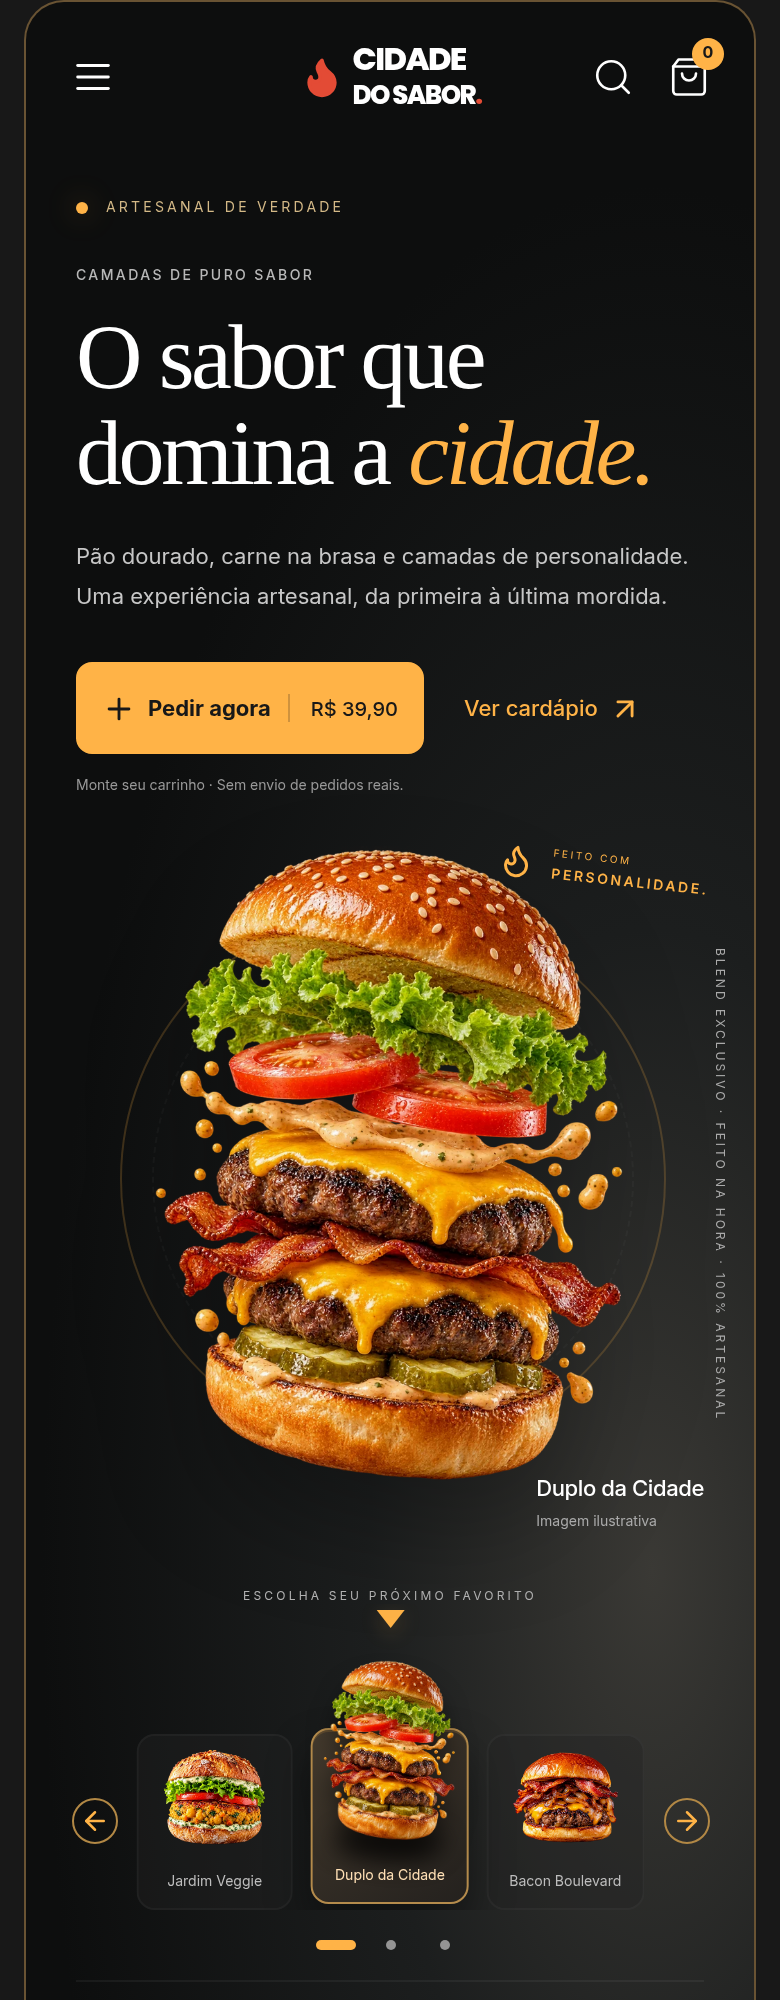
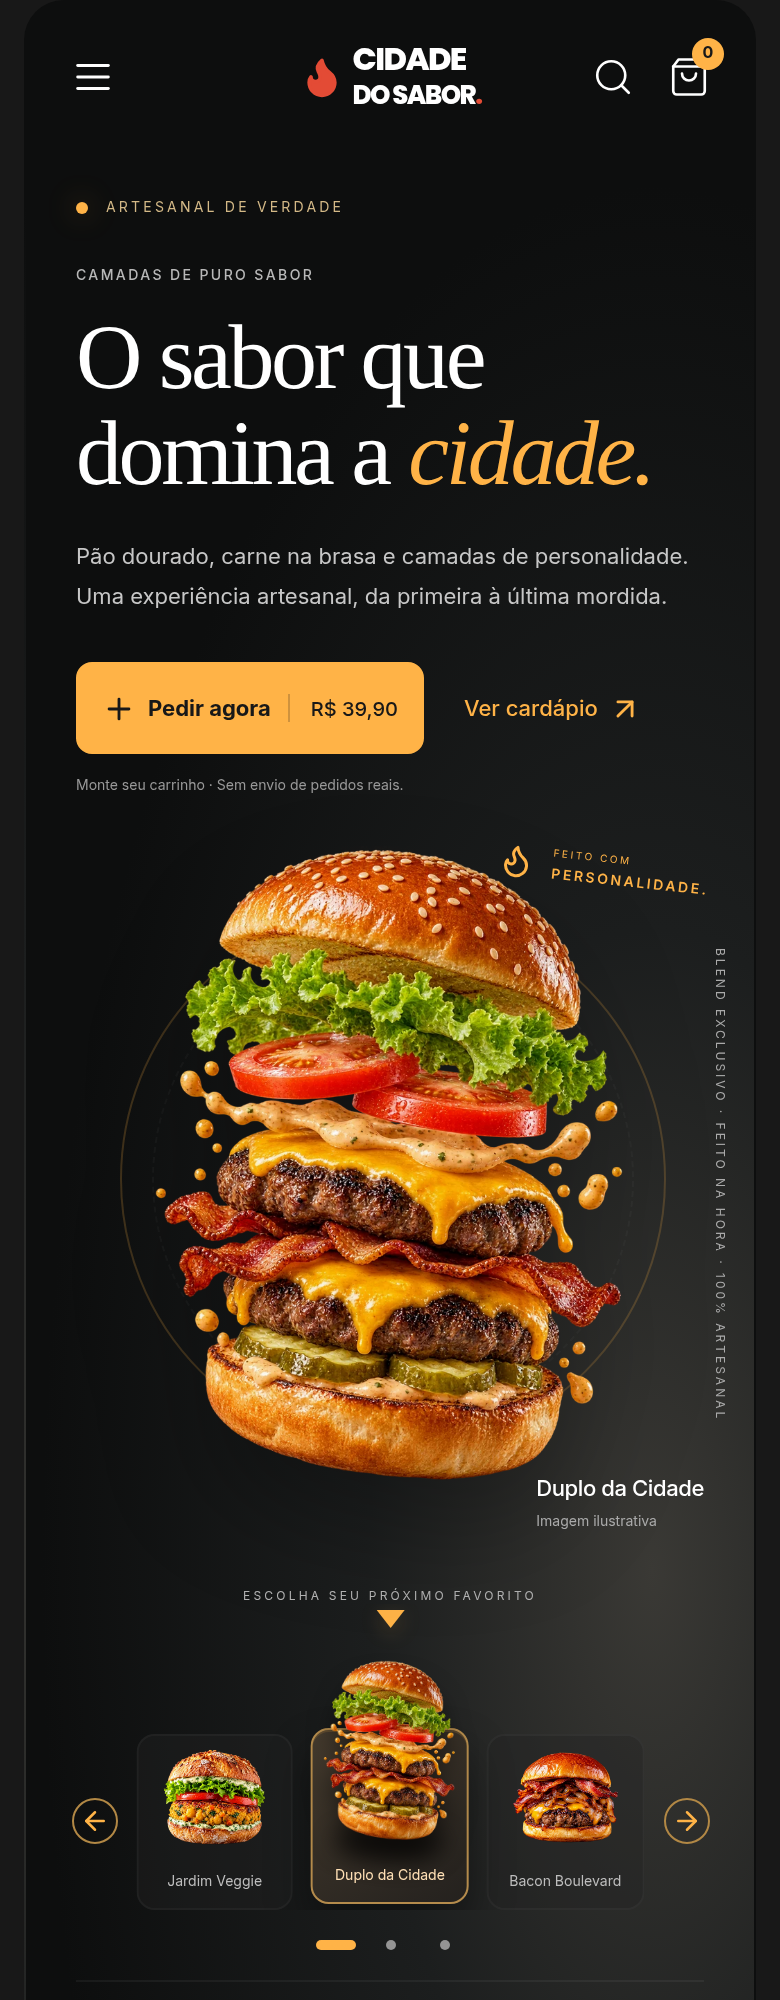
Remove orange border from the home-page mobile capture

Changed region(s): [[0.0308, 0.0, 0.0615, 0.031]]

diff --git a/projetos/cidade-do-sabor/index.html b/projetos/cidade-do-sabor/index.html
@@ -22,7 +22,7 @@
     <section class="case-section" aria-labelledby="overview-title"><p class="eyebrow">01 / CONTEXTO E PROPOSTA</p><h2 id="overview-title">Uma ideia explorada em interface.</h2><p>O projeto explora o caminho da descoberta do cardápio à personalização e ao acompanhamento de uma simulação de pedido. A interface inclui uma área de gestão com perfis e dados de exemplo.</p><dl class="case-facts"><div><dt>Natureza</dt><dd>Conceito de portfólio · sem cliente real</dd></div><div><dt>Experiência</dt><dd>Experiência gastronômica conceitual</dd></div><div><dt>Escopo apresentado</dt><dd>Vitrine + operação demonstrativa</dd></div></dl></section>
     <section class="case-section" aria-labelledby="identity-title"><p class="eyebrow">02 / IDENTIDADE VISUAL</p><h2 id="identity-title">Uma linguagem própria.</h2><p>A identidade combina fundo escuro, vermelho e laranja, com Poppins e Inter e um acento serifado em Georgia na vitrine. O símbolo de chama e as imagens gastronômicas fazem parte do projeto original.</p><ul class="case-palette" aria-label="Paleta de cores do projeto"><li><i class="swatch-cs-black" aria-hidden="true"></i><span>#181818</span></li><li><i class="swatch-cs-red" aria-hidden="true"></i><span>#E34B35</span></li><li><i class="swatch-cs-orange" aria-hidden="true"></i><span>#FFB347</span></li><li><i class="swatch-cs-white" aria-hidden="true"></i><span>#FFFFFF</span></li><li><i class="swatch-cs-dark" aria-hidden="true"></i><span>#242424</span></li></ul></section>
     <section class="case-section" aria-labelledby="features-title"><p class="eyebrow">03 / RECURSOS NO PROJETO ORIGINAL</p><h2 id="features-title">Da apresentação à interação.</h2><p>Recursos identificados no código e na documentação do projeto. As capturas abaixo apresentam esses fluxos; a execução interativa pertence à aplicação original.</p><div class="case-feature-grid"><article class="case-feature"><h3>Escolher e personalizar</h3><p>Cardápio com busca, categorias, ordenação, ingredientes, adicionais e montagem de combos.</p></article><article class="case-feature"><h3>Acompanhar a simulação</h3><p>Carrinho persistido, checkout local, histórico de pedidos e reservas demonstrativas.</p></article><article class="case-feature"><h3>Explorar a operação</h3><p>Perfis demo e painel com produtos, pedidos, reservas e relatórios calculados a partir de dados locais.</p></article></div></section>
-    <section class="case-section" id="interfaces" aria-labelledby="screens-title"><p class="eyebrow">04 / INTERFACES EXISTENTES</p><h2 id="screens-title">O projeto, em detalhes.</h2><p>Capturas de interfaces existentes: arquivos do repositório original e duas capturas mobile feitas na aplicação original em execução. Nenhuma interface foi inventada. Dados, valores e estados exibidos são exemplos. Abra cada imagem em uma nova aba para ampliar.</p><div class="case-gallery"><figure><a href="imagens/inicio-desktop.webp" target="_blank" rel="noopener noreferrer" aria-label="Ampliar captura da página inicial de Cidade do Sabor (nova aba)"><img src="imagens/inicio-desktop.webp" width="1440" height="1000" loading="lazy" decoding="async" alt="Captura da página inicial do projeto conceitual Cidade do Sabor"></a><figcaption><strong>Página inicial</strong>A identidade do projeto na vitrine. Captura existente no repositório original.</figcaption></figure><figure><a href="imagens/cardapio-desktop.webp" target="_blank" rel="noopener noreferrer" aria-label="Ampliar captura de Cardápio de Cidade do Sabor (nova aba)"><img src="imagens/cardapio-desktop.webp" width="1440" height="1000" loading="lazy" decoding="async" alt="Captura da interface conceitual Cardápio de Cidade do Sabor, com dados de demonstração"></a><figcaption><strong>Cardápio</strong>Produtos, pesquisa e organização por categorias. Abra a imagem para ampliar.</figcaption></figure><figure><a href="imagens/personalizacao-desktop.webp" target="_blank" rel="noopener noreferrer" aria-label="Ampliar captura de Personalização de Cidade do Sabor (nova aba)"><img src="imagens/personalizacao-desktop.webp" width="1440" height="1000" loading="lazy" decoding="async" alt="Captura da interface conceitual Personalização de Cidade do Sabor, com dados de demonstração"></a><figcaption><strong>Personalização</strong>Ingredientes, adicionais e valores demonstrativos. Abra a imagem para ampliar.</figcaption></figure><figure><a href="imagens/checkout-desktop.webp" target="_blank" rel="noopener noreferrer" aria-label="Ampliar captura de Checkout local de Cidade do Sabor (nova aba)"><img src="imagens/checkout-desktop.webp" width="1440" height="1000" loading="lazy" decoding="async" alt="Captura da interface conceitual Checkout local de Cidade do Sabor, com dados de demonstração"></a><figcaption><strong>Checkout local</strong>Dados fictícios e opções de recebimento, sem processamento financeiro. Abra a imagem para ampliar.</figcaption></figure><figure><a href="imagens/painel-desktop.webp" target="_blank" rel="noopener noreferrer" aria-label="Ampliar captura de Painel demonstrativo de Cidade do Sabor (nova aba)"><img src="imagens/painel-desktop.webp" width="1440" height="1000" loading="lazy" decoding="async" alt="Captura da interface conceitual Painel demonstrativo de Cidade do Sabor, com dados de demonstração"></a><figcaption><strong>Painel demonstrativo</strong>Indicadores derivados de exemplos locais, sem receita real. Abra a imagem para ampliar.</figcaption></figure><figure><a href="imagens/pedidos-desktop.webp" target="_blank" rel="noopener noreferrer" aria-label="Ampliar captura de Gestão de pedidos de Cidade do Sabor (nova aba)"><img src="imagens/pedidos-desktop.webp" width="1440" height="1000" loading="lazy" decoding="async" alt="Captura da interface conceitual Gestão de pedidos de Cidade do Sabor, com dados de demonstração"></a><figcaption><strong>Gestão de pedidos</strong>Status e ações aplicados apenas às simulações. Abra a imagem para ampliar.</figcaption></figure></div><section class="case-mobile-showcase" id="experiencia-mobile" aria-labelledby="mobile-title"><div class="case-mobile-heading"><h3 id="mobile-title">Experiência mobile</h3><p>Duas telas reais do projeto, na mesma escala. Role dentro dos celulares ou amplie as imagens.</p></div><div class="case-mobile-grid"><figure class="case-mobile-item"><div class="case-mobile-label"><span aria-hidden="true">01</span><h4>Página inicial</h4></div><div class="case-phone-stage"><div class="case-phone"><div class="case-phone-display"><span class="case-phone-camera" aria-hidden="true"></span><div class="case-phone-screen" tabindex="0" role="region" aria-label="Captura rolável: Página inicial. Role para explorar a tela."><a class="mobile-capture" href="imagens/inicio-mobile-alinhado.png" target="_blank" rel="noopener noreferrer" aria-label="Ampliar captura mobile: Página inicial (nova aba)"><img src="imagens/inicio-mobile-alinhado.png" width="780" height="2000" loading="lazy" decoding="async" alt="Página inicial de Cidade do Sabor em viewport mobile, com navegação e apresentação do hambúrguer."></a></div></div></div></div><figcaption><a href="imagens/inicio-mobile-alinhado.png" target="_blank" rel="noopener noreferrer" aria-label="Ampliar imagem completa: Página inicial (nova aba)">Ampliar imagem <svg class="arrow-icon" width="14" height="14" viewBox="0 0 24 24" fill="none" stroke="currentColor" stroke-width="1.8" stroke-linecap="round" stroke-linejoin="round" aria-hidden="true" focusable="false"><path d="M5 19 19 5M5 5h14v14"/></svg></a></figcaption></figure><figure class="case-mobile-item"><div class="case-mobile-label"><span aria-hidden="true">02</span><h4>Cardápio</h4></div><div class="case-phone-stage"><div class="case-phone"><div class="case-phone-display"><span class="case-phone-camera" aria-hidden="true"></span><div class="case-phone-screen" tabindex="0" role="region" aria-label="Captura rolável: Cardápio. Role para explorar a tela."><a class="mobile-capture" href="imagens/cardapio-mobile-alinhado.png" target="_blank" rel="noopener noreferrer" aria-label="Ampliar captura mobile: Cardápio (nova aba)"><img src="imagens/cardapio-mobile-alinhado.png" width="780" height="2000" loading="lazy" decoding="async" alt="Cardápio mobile de Cidade do Sabor, com navegação, busca, categorias e produtos fictícios."></a></div></div></div></div><figcaption><a href="imagens/cardapio-mobile-alinhado.png" target="_blank" rel="noopener noreferrer" aria-label="Ampliar imagem completa: Cardápio (nova aba)">Ampliar imagem <svg class="arrow-icon" width="14" height="14" viewBox="0 0 24 24" fill="none" stroke="currentColor" stroke-width="1.8" stroke-linecap="round" stroke-linejoin="round" aria-hidden="true" focusable="false"><path d="M5 19 19 5M5 5h14v14"/></svg></a></figcaption></figure></div></section></section>
+    <section class="case-section" id="interfaces" aria-labelledby="screens-title"><p class="eyebrow">04 / INTERFACES EXISTENTES</p><h2 id="screens-title">O projeto, em detalhes.</h2><p>Capturas de interfaces existentes: arquivos do repositório original e duas capturas mobile feitas na aplicação original em execução. Nenhuma interface foi inventada. Dados, valores e estados exibidos são exemplos. Abra cada imagem em uma nova aba para ampliar.</p><div class="case-gallery"><figure><a href="imagens/inicio-desktop.webp" target="_blank" rel="noopener noreferrer" aria-label="Ampliar captura da página inicial de Cidade do Sabor (nova aba)"><img src="imagens/inicio-desktop.webp" width="1440" height="1000" loading="lazy" decoding="async" alt="Captura da página inicial do projeto conceitual Cidade do Sabor"></a><figcaption><strong>Página inicial</strong>A identidade do projeto na vitrine. Captura existente no repositório original.</figcaption></figure><figure><a href="imagens/cardapio-desktop.webp" target="_blank" rel="noopener noreferrer" aria-label="Ampliar captura de Cardápio de Cidade do Sabor (nova aba)"><img src="imagens/cardapio-desktop.webp" width="1440" height="1000" loading="lazy" decoding="async" alt="Captura da interface conceitual Cardápio de Cidade do Sabor, com dados de demonstração"></a><figcaption><strong>Cardápio</strong>Produtos, pesquisa e organização por categorias. Abra a imagem para ampliar.</figcaption></figure><figure><a href="imagens/personalizacao-desktop.webp" target="_blank" rel="noopener noreferrer" aria-label="Ampliar captura de Personalização de Cidade do Sabor (nova aba)"><img src="imagens/personalizacao-desktop.webp" width="1440" height="1000" loading="lazy" decoding="async" alt="Captura da interface conceitual Personalização de Cidade do Sabor, com dados de demonstração"></a><figcaption><strong>Personalização</strong>Ingredientes, adicionais e valores demonstrativos. Abra a imagem para ampliar.</figcaption></figure><figure><a href="imagens/checkout-desktop.webp" target="_blank" rel="noopener noreferrer" aria-label="Ampliar captura de Checkout local de Cidade do Sabor (nova aba)"><img src="imagens/checkout-desktop.webp" width="1440" height="1000" loading="lazy" decoding="async" alt="Captura da interface conceitual Checkout local de Cidade do Sabor, com dados de demonstração"></a><figcaption><strong>Checkout local</strong>Dados fictícios e opções de recebimento, sem processamento financeiro. Abra a imagem para ampliar.</figcaption></figure><figure><a href="imagens/painel-desktop.webp" target="_blank" rel="noopener noreferrer" aria-label="Ampliar captura de Painel demonstrativo de Cidade do Sabor (nova aba)"><img src="imagens/painel-desktop.webp" width="1440" height="1000" loading="lazy" decoding="async" alt="Captura da interface conceitual Painel demonstrativo de Cidade do Sabor, com dados de demonstração"></a><figcaption><strong>Painel demonstrativo</strong>Indicadores derivados de exemplos locais, sem receita real. Abra a imagem para ampliar.</figcaption></figure><figure><a href="imagens/pedidos-desktop.webp" target="_blank" rel="noopener noreferrer" aria-label="Ampliar captura de Gestão de pedidos de Cidade do Sabor (nova aba)"><img src="imagens/pedidos-desktop.webp" width="1440" height="1000" loading="lazy" decoding="async" alt="Captura da interface conceitual Gestão de pedidos de Cidade do Sabor, com dados de demonstração"></a><figcaption><strong>Gestão de pedidos</strong>Status e ações aplicados apenas às simulações. Abra a imagem para ampliar.</figcaption></figure></div><section class="case-mobile-showcase" id="experiencia-mobile" aria-labelledby="mobile-title"><div class="case-mobile-heading"><h3 id="mobile-title">Experiência mobile</h3><p>Duas telas reais do projeto, na mesma escala. Role dentro dos celulares ou amplie as imagens.</p></div><div class="case-mobile-grid"><figure class="case-mobile-item"><div class="case-mobile-label"><span aria-hidden="true">01</span><h4>Página inicial</h4></div><div class="case-phone-stage"><div class="case-phone"><div class="case-phone-display"><span class="case-phone-camera" aria-hidden="true"></span><div class="case-phone-screen" tabindex="0" role="region" aria-label="Captura rolável: Página inicial. Role para explorar a tela."><a class="mobile-capture" href="imagens/inicio-mobile-alinhado.png?v=20261030-sem-contorno" target="_blank" rel="noopener noreferrer" aria-label="Ampliar captura mobile: Página inicial (nova aba)"><img src="imagens/inicio-mobile-alinhado.png?v=20261030-sem-contorno" width="780" height="2000" loading="lazy" decoding="async" alt="Página inicial de Cidade do Sabor em viewport mobile, com navegação e apresentação do hambúrguer."></a></div></div></div></div><figcaption><a href="imagens/inicio-mobile-alinhado.png?v=20261030-sem-contorno" target="_blank" rel="noopener noreferrer" aria-label="Ampliar imagem completa: Página inicial (nova aba)">Ampliar imagem <svg class="arrow-icon" width="14" height="14" viewBox="0 0 24 24" fill="none" stroke="currentColor" stroke-width="1.8" stroke-linecap="round" stroke-linejoin="round" aria-hidden="true" focusable="false"><path d="M5 19 19 5M5 5h14v14"/></svg></a></figcaption></figure><figure class="case-mobile-item"><div class="case-mobile-label"><span aria-hidden="true">02</span><h4>Cardápio</h4></div><div class="case-phone-stage"><div class="case-phone"><div class="case-phone-display"><span class="case-phone-camera" aria-hidden="true"></span><div class="case-phone-screen" tabindex="0" role="region" aria-label="Captura rolável: Cardápio. Role para explorar a tela."><a class="mobile-capture" href="imagens/cardapio-mobile-alinhado.png" target="_blank" rel="noopener noreferrer" aria-label="Ampliar captura mobile: Cardápio (nova aba)"><img src="imagens/cardapio-mobile-alinhado.png" width="780" height="2000" loading="lazy" decoding="async" alt="Cardápio mobile de Cidade do Sabor, com navegação, busca, categorias e produtos fictícios."></a></div></div></div></div><figcaption><a href="imagens/cardapio-mobile-alinhado.png" target="_blank" rel="noopener noreferrer" aria-label="Ampliar imagem completa: Cardápio (nova aba)">Ampliar imagem <svg class="arrow-icon" width="14" height="14" viewBox="0 0 24 24" fill="none" stroke="currentColor" stroke-width="1.8" stroke-linecap="round" stroke-linejoin="round" aria-hidden="true" focusable="false"><path d="M5 19 19 5M5 5h14v14"/></svg></a></figcaption></figure></div></section></section>
     <section class="case-section case-motion" aria-labelledby="motion-title"><div class="case-motion-copy"><p class="eyebrow">DETALHE EM MOVIMENTO</p><h2 id="motion-title">Uma troca de sabor, em movimento.</h2><p>Um recorte da vitrine original mostra a transição entre os hambúrgueres. Imagem, texto e seleção do carrossel acompanham a troca, sem percorrer o restante do site.</p><p id="video-description">Ao avançar o carrossel, a vitrine alterna entre Dupla da Cidade, Bacon Boulevard e Jardim Veggie; imagem, título e miniatura selecionada acompanham a transição.</p><p class="case-video-description">Clipe de aproximadamente 8 segundos, sem áudio. Reprodução automática ao entrar na tela, com controles para pausar. A preferência por movimento reduzido mantém a reprodução manual. <a href="media/troca-hamburguer.mp4" download>Baixar o clipe</a>.</p></div><figure class="case-motion-media"><video data-demo-video controls muted playsinline loop preload="none" poster="imagens/troca-hamburguer-poster.png" width="1360" height="804" aria-label="Clipe curto da transição entre hambúrgueres na vitrine de Cidade do Sabor" aria-describedby="video-description"><source src="media/troca-hamburguer.mp4" type="video/mp4"><track kind="captions" src="media/troca-hamburguer.vtt" srclang="pt-BR" label="Descrição da interação">Seu navegador não suporta vídeo HTML5. <a href="media/troca-hamburguer.mp4">Baixar clipe demonstrativo</a>.</video><figcaption>Recorte da aplicação original · 8 segundos · sem áudio · demonstração fictícia.</figcaption></figure></section>
     <section class="case-section" aria-labelledby="tech-title"><p class="eyebrow">05 / TECNOLOGIAS</p><h2 id="tech-title">As ferramentas da experiência.</h2><ul class="tech-tags" aria-label="Tecnologias do projeto"><li>Next.js · App Router</li><li>React</li><li>TypeScript</li><li>Tailwind CSS 4</li><li>CSS Modules</li><li>Lucide React</li><li>Fontsource</li><li>localStorage + sessionStorage</li><li>SVG</li></ul><p>O código original está em um repositório independente. Esta apresentação no portfólio da dSaOl usa HTML e CSS e mantém as tecnologias do site principal.</p></section>
     <section class="case-section" aria-labelledby="limits-title"><p class="eyebrow">06 / ALCANCE DA DEMONSTRAÇÃO</p><h2 id="limits-title">Conceito com limites claros.</h2><ul class="case-limit-list"><li>Não é um restaurante real nem um projeto entregue a cliente. Produtos, endereço, preços, depoimentos e dados comerciais são fictícios.</li><li>Perfis de cliente e administrador não têm autenticação real. Não há backend de operação, cobrança, envio ao restaurante ou reserva real de mesa.</li><li>Dados de teste ficam no navegador e não são compartilhados entre computador e celular. Alterações entre abas da mesma origem usam armazenamento local.</li><li>As capturas são de interfaces existentes; as imagens gastronômicas são identificadas no repositório como geradas por IA. Os indicadores nas telas são exemplos, não resultados comerciais.</li></ul><p>O painel demonstrativo deste projeto é independente do painel protegido da dSaOl Web Studio. Nenhuma função deste estudo altera usuários, clientes ou projetos do backend da dSaOl.</p><a class="section-text-link" href="https://github.com/Rafadsaol/cidadedosaborv1" target="_blank" rel="noopener noreferrer">Consultar o projeto original no GitHub <svg class="arrow-icon" width="16" height="16" viewBox="0 0 24 24" fill="none" stroke="currentColor" stroke-width="1.8" stroke-linecap="round" stroke-linejoin="round" aria-hidden="true" focusable="false"><path d="M5 19 19 5M5 5h14v14"/></svg></a></section>
